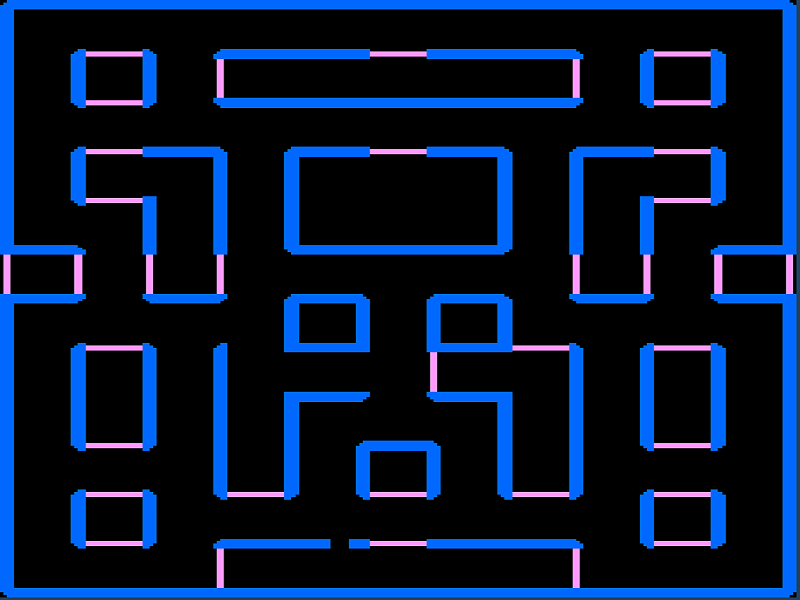
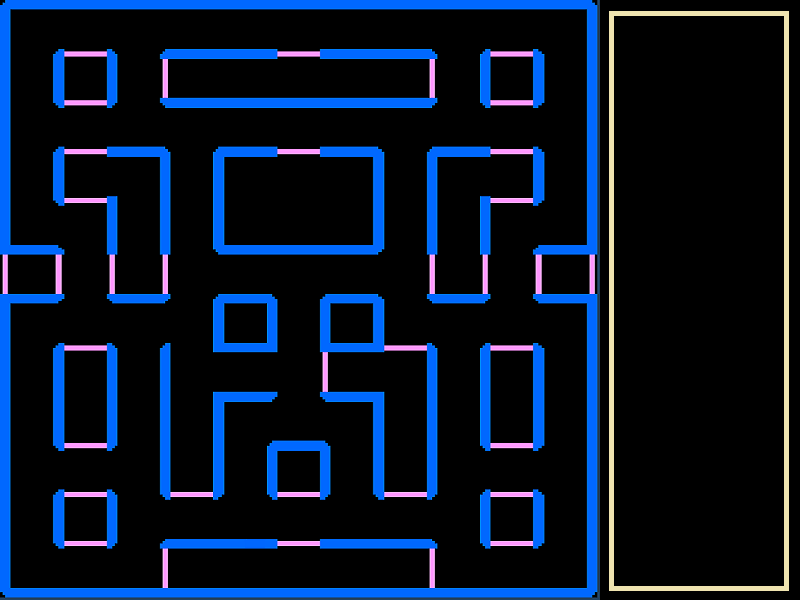
11/22

diff --git a/map.py b/map.py
@@ -4,34 +4,35 @@ from pico2d import *
 class map:
 
     image = None
+    mapdata = None
     def __init__(self):
         self.image = load_image('png/map.png')
         self.mapdata = [
-              {1, 1, 1, 1, 1, 1, 1, 1, 1, 1, 1, 1, 1, 1, 1, 1, 1, 1, 1, 1, 1, 1, 1}
-            , {1, 0, 0, 0, 0, 0, 0, 0, 0, 0, 0, 0, 0, 0, 0, 0, 0, 0, 0, 0, 0, 0, 1}
-            , {1, 0, 1, 1, 1, 0, 1, 1, 1, 1, 1, 1, 1, 1, 1, 1, 1, 0, 1, 1, 1, 0, 1}
-            , {1, 5, 1, 1, 1, 0, 1, 1, 1, 1, 1 ,1, 1, 1, 1, 1, 1, 0, 1, 1, 1, 5, 1}
-            , {1, 0, 1, 1, 1, 0, 1, 1, 1, 1, 1, 1 ,1, 1, 1, 1, 1, 0, 1, 1, 1, 0, 1}
-            , {1, 0, 0, 0, 0, 0, 0, 0, 0, 0, 0, 0, 0, 0, 0, 0, 0, 0, 0, 0, 0, 0, 1}
-            , {1, 0, 1, 1, 1, 1, 1, 0, 1, 1, 1, 1, 1, 1, 1, 0, 1, 1, 1, 1, 1, 0, 1}
-            , {1, 0, 1, 1, 1, 1, 1, 0, 1, 1, 1, 1, 1, 1, 1, 0, 1, 1, 1, 1, 1, 0, 1}
-            , {1, 0, 1, 1, 1, 1, 1, 0, 1, 1, 1, 1, 1, 1, 1, 0, 1, 1, 1, 1, 1, 0, 1}
-            , {1, 0, 0, 0, 1, 1, 1, 0, 1, 1, 1, 1, 1, 1, 1, 0, 1, 1, 1, 0, 0, 0, 1}
-            , {1, 1, 1, 0, 1, 1, 1, 0, 1, 1, 1, 1, 1, 1, 1, 0, 1, 1, 1, 0, 1, 1, 1}
-            , {1, 1, 1, 0, 1, 1, 1, 0, 0, 0, 0, 0, 0, 0, 0, 0, 1, 1, 1, 0, 1, 1, 1}
-            , {1, 1, 1, 0, 1, 1, 1, 0, 1, 1, 1, 0, 1, 1, 1, 0, 1, 1, 1, 0, 1, 1, 1}
-            , {1, 0, 0, 0, 0, 0, 0, 0, 1, 1, 1, 0, 1, 1, 1, 0, 0, 0, 0, 0, 0, 0, 1}
-            , {1, 0, 1, 1, 1, 0, 1, 0, 1, 1, 1, 0, 1, 1, 1, 1, 1, 0, 1, 1, 1, 0, 1}
-            , {1, 0, 1, 1, 1, 0, 1, 0, 0, 0, 0, 0, 1, 1, 1, 1, 1, 0, 1, 1, 1, 0, 1}
-            , {1, 0, 1, 1, 1, 0, 1, 0, 1, 1, 1, 0, 1, 1, 1, 1, 1, 0, 1, 1, 1, 0, 1}
-            , {1, 0, 1, 1, 1, 0, 1, 0, 1, 0, 0, 0, 0, 0, 1, 1, 1, 0, 1, 1, 1, 0, 1}
-            , {1, 0, 1, 1, 1, 0, 1, 0, 1, 0, 1, 1, 1, 0, 1, 1, 1, 0, 1, 1, 1, 0, 1}
-            , {1, 0, 0, 0, 0, 0, 1, 1, 1, 0, 1, 1, 1, 0, 1, 1, 1, 0, 0, 0, 0, 0, 1}
-            , {1, 0, 1, 1, 1, 0, 1, 1, 1, 0, 1, 1, 1, 0, 1, 1, 1, 0, 1, 1, 1, 0, 1}
-            , {1, 5, 1, 1, 1, 0, 0, 0, 0, 0, 0, 0, 0, 0, 0, 0, 0, 0, 1, 1, 1, 5, 1}
-            , {1, 0, 1, 1, 1, 0, 1, 1, 1, 1, 1, 1, 1, 1, 1, 1, 1, 0, 1, 1, 1, 0, 1}
-            , {1, 0, 0, 0, 0, 0, 1, 1, 1, 1, 1, 1, 1, 1, 1, 1, 1, 0, 0, 0, 0, 0, 1}
-            , {1, 1, 1, 1, 1, 1, 1, 1, 1, 1, 1, 1, 1, 1, 1, 1, 1, 1, 1, 1, 1, 1, 1}
+              [1, 1, 1, 1, 1, 1, 1, 1, 1, 1, 1, 1, 1, 1, 1, 1, 1, 1, 1, 1, 1, 1, 1]
+            , [1, 0, 0, 0, 0, 0, 0, 0, 0, 0, 0, 0, 0, 0, 0, 0, 0, 0, 0, 0, 0, 0, 1]
+            , [1, 0, 1, 1, 1, 0, 1, 1, 1, 1, 1, 1, 1, 1, 1, 1, 1, 0, 1, 1, 1, 0, 1]
+            , [1, 0, 1, 1, 1, 0, 1, 1, 1, 1, 1 ,1, 1, 1, 1, 1, 1, 0, 1, 1, 1, 0, 1]
+            , [1, 0, 1, 1, 1, 0, 1, 1, 1, 1, 1, 1 ,1, 1, 1, 1, 1, 0, 1, 1, 1, 0, 1]
+            , [1, 0, 0, 0, 0, 0, 0, 0, 0, 0, 0, 0, 0, 0, 0, 0, 0, 0, 0, 0, 0, 0, 1]
+            , [1, 0, 1, 1, 1, 1, 1, 0, 1, 1, 1, 1, 1, 1, 1, 0, 1, 1, 1, 1, 1, 0, 1]
+            , [1, 0, 1, 1, 1, 1, 1, 0, 1, 1, 1, 1, 1, 1, 1, 0, 1, 1, 1, 1, 1, 0, 1]
+            , [1, 0, 1, 1, 1, 1, 1, 0, 1, 1, 1, 1, 1, 1, 1, 0, 1, 1, 1, 1, 1, 0, 1]
+            , [1, 0, 0, 0, 1, 1, 1, 0, 1, 1, 1, 1, 1, 1, 1, 0, 1, 1, 1, 0, 0, 0, 1]
+            , [1, 1, 1, 0, 1, 1, 1, 0, 1, 1, 1, 1, 1, 1, 1, 0, 1, 1, 1, 0, 1, 1, 1]
+            , [1, 1, 1, 0, 1, 1, 1, 0, 0, 0, 0, 0, 0, 0, 0, 0, 1, 1, 1, 0, 1, 1, 1]
+            , [1, 1, 1, 0, 1, 1, 1, 0, 1, 1, 1, 0, 1, 1, 1, 0, 1, 1, 1, 0, 1, 1, 1]
+            , [1, 0, 0, 0, 0, 0, 0, 0, 1, 1, 1, 0, 1, 1, 1, 0, 0, 0, 0, 0, 0, 0, 1]
+            , [1, 0, 1, 1, 1, 0, 1, 0, 1, 1, 1, 0, 1, 1, 1, 1, 1, 0, 1, 1, 1, 0, 1]
+            , [1, 0, 1, 1, 1, 0, 1, 0, 0, 0, 0, 0, 1, 1, 1, 1, 1, 0, 1, 1, 1, 0, 1]
+            , [1, 0, 1, 1, 1, 0, 1, 0, 1, 1, 1, 0, 1, 1, 1, 1, 1, 0, 1, 1, 1, 0, 1]
+            , [1, 0, 1, 1, 1, 0, 1, 0, 1, 0, 0, 0, 0, 0, 1, 1, 1, 0, 1, 1, 1, 0, 1]
+            , [1, 0, 1, 1, 1, 0, 1, 0, 1, 0, 1, 1, 1, 0, 1, 1, 1, 0, 1, 1, 1, 0, 1]
+            , [1, 0, 0, 0, 0, 0, 1, 1, 1, 0, 1, 1, 1, 0, 1, 1, 1, 0, 0, 0, 0, 0, 1]
+            , [1, 0, 1, 1, 1, 0, 1, 1, 1, 0, 1, 1, 1, 0, 1, 1, 1, 0, 1, 1, 1, 0, 1]
+            , [1, 0, 1, 1, 1, 0, 0, 0, 0, 0, 0, 0, 0, 0, 0, 0, 0, 0, 1, 1, 1, 0, 1]
+            , [1, 0, 1, 1, 1, 0, 1, 1, 1, 1, 1, 1, 1, 1, 1, 1, 1, 0, 1, 1, 1, 0, 1]
+            , [1, 0, 0, 0, 0, 0, 1, 1, 1, 1, 1, 1, 1, 1, 1, 1, 1, 0, 0, 0, 0, 0, 1]
+            , [1, 1, 1, 1, 1, 1, 1, 1, 1, 1, 1, 1, 1, 1, 1, 1, 1, 1, 1, 1, 1, 1, 1]
             ]
 
     def draw(self):

diff --git a/start_state.py b/start_state.py
@@ -1,0 +1,55 @@
+import game_framework
+import logo_Scene
+from pico2d import *
+
+
+name = "StartState"
+image = None
+logo_time = 0.0
+
+
+def enter():            #handle_event 을 실행
+    global image
+    image = load_image('png/kpu.png')
+    pass
+
+def exit():
+    global image
+    del(image)
+    pass
+
+
+def update(frame_time):
+    global logo_time
+
+    if(logo_time > 1.0):
+        logo_time = 0
+        #game_framework.quit()
+        game_framework.push_state(logo_Scene)      #start state의 pause를 먼저 수행. -> title_state의 enter 실행.
+                                                    # 현재 상태에 머무른 뒤에  ,.... pop으로 돌아오기.
+        #game_framework.change_state(title_state)      # 현재상태의 exit를 수행함. 에러발생.
+    delay(0.01)
+    logo_time += 0.01
+
+
+def draw(frame_time):
+    global image
+    clear_canvas()
+    image.draw(400, 300)
+    update_canvas()
+
+
+
+
+def handle_events(frame_time):        #update, draw 실행.
+    events = get_events()
+    pass
+
+
+def pause(): pass
+
+
+def resume(): pass      # exit 수행.
+
+
+

diff --git a/logo_Scene.py b/logo_Scene.py
@@ -1,0 +1,52 @@
+import game_framework
+import menu
+from pico2d import *
+
+
+name = "LogoScene"
+image = None
+logo_time = 0.0
+
+
+def enter():            #handle_event 을 실행
+    global image
+    image = load_image('png/logo.png')
+    pass
+
+def exit():
+    global image
+    del(image)
+    pass
+
+
+def update(frame_time):
+    global logo_time
+
+    if(logo_time > 0.7):
+        logo_time = 0
+        #game_framework.quit()
+        game_framework.push_state(menu)      #start state의 pause를 먼저 수행. -> title_state의 enter 실행.
+                                                    # 현재 상태에 머무른 뒤에  ,.... pop으로 돌아오기.
+        #game_framework.change_state(title_state)      # 현재상태의 exit를 수행함. 에러발생.
+    delay(0.01)
+    logo_time += 0.01
+
+
+def draw(frame_time):
+    global image
+    clear_canvas()
+    image.draw(400, 300)
+    update_canvas()
+
+
+
+
+def handle_events(frame_time):        #update, draw 실행.
+    events = get_events()
+    pass
+
+
+def pause(): pass
+
+
+def resume(): pass      # exit 수행.

diff --git a/Enemy.py b/Enemy.py
@@ -3,13 +3,13 @@ import random
 
 
 class Enemy:
-    PIXEL_PER_METER = (10.0 / 0.3)           # 10 pixel 30 cm
-    RUN_SPEED_KMPH = 20.0                    # Km / Hour
+    PIXEL_PER_METER = (30.0 / 1.0)           # 10 pixel 30 cm
+    RUN_SPEED_KMPH = 3.5                    # Km / Hour
     RUN_SPEED_MPM = (RUN_SPEED_KMPH * 1000.0 / 60.0)
     RUN_SPEED_MPS = (RUN_SPEED_MPM / 60.0)
     RUN_SPEED_PPS = (RUN_SPEED_MPS * PIXEL_PER_METER)
 
-    TIME_PER_ACTION = 0.5
+    TIME_PER_ACTION = 0.1
     ACTION_PER_TIME = 1.0 / TIME_PER_ACTION
     FRAMES_PER_ACTION = 8
 
@@ -32,8 +32,8 @@ class Enemy:
         self.life_time += frame_time
         distance = Enemy.RUN_SPEED_PPS * frame_time
         self.total_frames += Enemy.FRAMES_PER_ACTION * Enemy.ACTION_PER_TIME * frame_time
-        self.frame = int(self.total_frames) % 4
-        self.x += (self.dir * distance)
+        self.frame = int(self.total_frames) % 8
+       # self.x += (self.dir * distance)
 
     def draw(self):
         self.image.clip_draw(self.state* 30, self.type*30, 30, 30, self.x, self.y)

diff --git a/collision.py b/collision.py
@@ -20,7 +20,7 @@ world_map = None
 def create_world():
     global pacman, ghost, item_set, world_map
     pacman = Player()
-    ghost = [Enemy(30, 670, 1),Enemy(670, 30, 2),Enemy(670, 670, 3),Enemy(360, 390, 4)]
+    ghost = [Enemy(35, 565, 1),Enemy(565, 35, 2),Enemy(565, 565, 3),Enemy(350, 390, 4)]
  #   item_set = [item(1), item(1), item(1), item(1)
   #              ,item(5), item(6), item(7), item(8)]
     world_map = map()
@@ -43,7 +43,6 @@ def enter():
 
 def exit():
     destroy_world()
-    close_canvas()
 
 
 def pause():
@@ -97,11 +96,15 @@ def update(frame_time):
 
 def draw(frame_time):
     clear_canvas()
-    world_map.draw()
+#    world_map.draw()
     pacman.draw()
 
     for g in ghost:
         g.draw()
 
+    for i in range(25):
+        for j in range(23):
+            if world_map.mapdata[i][22-j]==1:
+                draw_rectangle(j*26, 600-i*24,  (j+1)*26, 600-((i+1)*24))
 
     update_canvas()

diff --git a/objects.py b/objects.py
@@ -1,6 +1,5 @@
 from pico2d import*
 
-#d
 class Player:
 
     PIXEL_PER_METER = (30.0 / 1.0)  # 10 pixel 30 cm
@@ -9,16 +8,16 @@ class Player:
     RUN_SPEED_MPS = (RUN_SPEED_MPM / 60.0)
     RUN_SPEED_PPS = (RUN_SPEED_MPS * PIXEL_PER_METER)
 
-    TIME_PER_ACTION = 0.5
+    TIME_PER_ACTION = 0.1
     ACTION_PER_TIME = 1.0 / TIME_PER_ACTION
-    FRAMES_PER_ACTION = 5
+    FRAMES_PER_ACTION = 4
 
     image = None
 
     RIGHT, LEFT, UP, DOWN = 3, 2, 1, 0
 
     def __init__(self):
-        self.x, self.y = 30, 30
+        self.x, self.y = 35, 35
         self.frame = 0
         self.life_time = 0.0
         self.total_frames = 0.0

diff --git a/mygame.py b/mygame.py
@@ -1,6 +1,16 @@
+from pico2d import*
+
 import game_framework
+import start_state
 
-import menu
+import collision
 
 
-game_framework.run(menu)
+
+
+
+open_canvas()
+
+game_framework.run(collision)
+
+close_canvas()

diff --git a/menu.py b/menu.py
@@ -8,7 +8,6 @@ image_menu = None
 
 def enter():
     global image_menu
-    open_canvas()
     image_menu = load_image('png/main.png')
 
 def exit():
